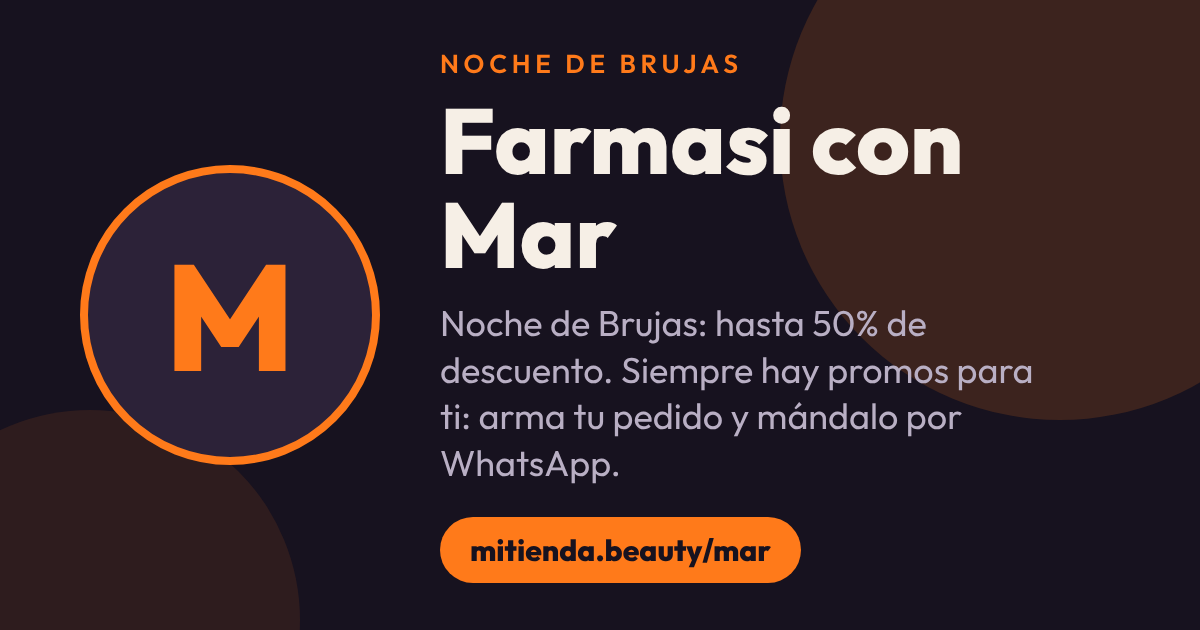
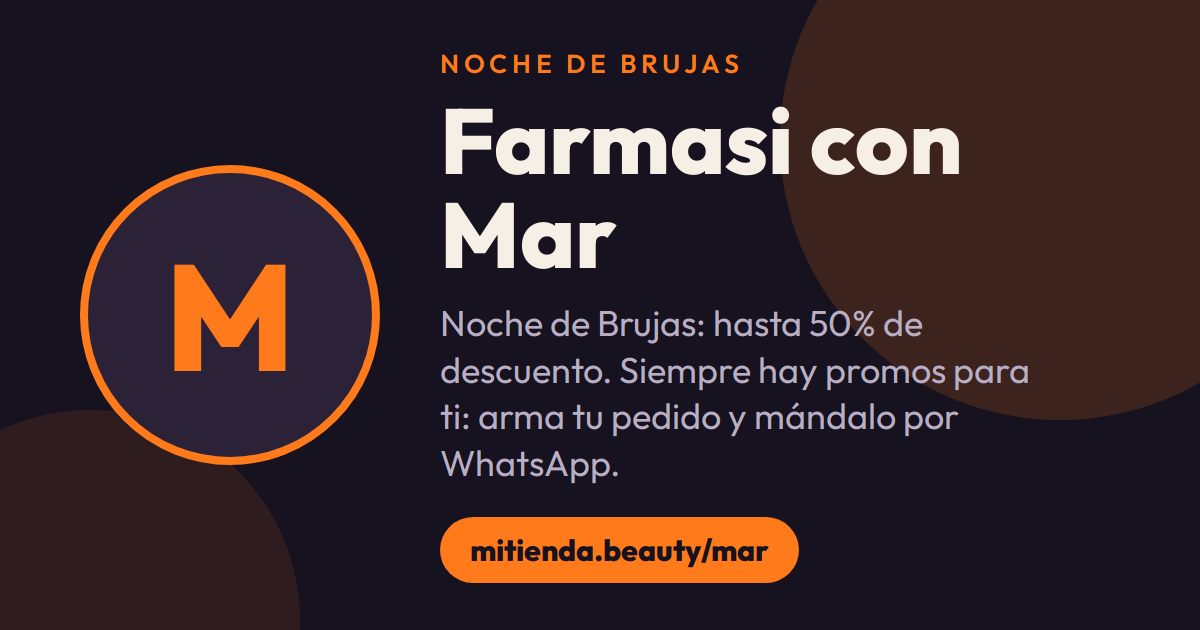
Vistas previas actualizadas (automático)

diff --git a/anaofelia/index.html b/anaofelia/index.html
@@ -14,11 +14,11 @@
 <meta property="og:type" content="website">
 <meta property="og:locale" content="es_MX">
 <meta property="og:url" content="https://mitienda.beauty/anaofelia/">
-<meta property="og:image" content="https://mitienda.beauty/og/anaofelia.png?v=a64262da">
+<meta property="og:image" content="https://mitienda.beauty/og/anaofelia.png?v=b93d5d35">
 <meta property="og:image:width" content="1200">
 <meta property="og:image:height" content="630">
 <meta name="twitter:card" content="summary_large_image">
-<meta name="twitter:image" content="https://mitienda.beauty/og/anaofelia.png?v=a64262da">
+<meta name="twitter:image" content="https://mitienda.beauty/og/anaofelia.png?v=b93d5d35">
 <link rel="preconnect" href="https://fonts.googleapis.com">
 <link rel="preconnect" href="https://fonts.gstatic.com" crossorigin>
 <link href="https://fonts.googleapis.com/css2?family=IBM+Plex+Mono:wght@400;500;700&family=Outfit:wght@300;400;500;600;700;800&display=swap" rel="stylesheet">

diff --git a/anagomez/index.html b/anagomez/index.html
@@ -14,11 +14,11 @@
 <meta property="og:type" content="website">
 <meta property="og:locale" content="es_MX">
 <meta property="og:url" content="https://mitienda.beauty/anagomez/">
-<meta property="og:image" content="https://mitienda.beauty/og/anagomez.png?v=fdf95411">
+<meta property="og:image" content="https://mitienda.beauty/og/anagomez.png?v=821de035">
 <meta property="og:image:width" content="1200">
 <meta property="og:image:height" content="630">
 <meta name="twitter:card" content="summary_large_image">
-<meta name="twitter:image" content="https://mitienda.beauty/og/anagomez.png?v=fdf95411">
+<meta name="twitter:image" content="https://mitienda.beauty/og/anagomez.png?v=821de035">
 <link rel="preconnect" href="https://fonts.googleapis.com">
 <link rel="preconnect" href="https://fonts.gstatic.com" crossorigin>
 <link href="https://fonts.googleapis.com/css2?family=IBM+Plex+Mono:wght@400;500;700&family=Outfit:wght@300;400;500;600;700;800&display=swap" rel="stylesheet">

diff --git a/andrea/index.html b/andrea/index.html
@@ -14,11 +14,11 @@
 <meta property="og:type" content="website">
 <meta property="og:locale" content="es_MX">
 <meta property="og:url" content="https://mitienda.beauty/andrea/">
-<meta property="og:image" content="https://mitienda.beauty/og/andrea.png?v=12f61dfd">
+<meta property="og:image" content="https://mitienda.beauty/og/andrea.png?v=c34cbcfd">
 <meta property="og:image:width" content="1200">
 <meta property="og:image:height" content="630">
 <meta name="twitter:card" content="summary_large_image">
-<meta name="twitter:image" content="https://mitienda.beauty/og/andrea.png?v=12f61dfd">
+<meta name="twitter:image" content="https://mitienda.beauty/og/andrea.png?v=c34cbcfd">
 <link rel="preconnect" href="https://fonts.googleapis.com">
 <link rel="preconnect" href="https://fonts.gstatic.com" crossorigin>
 <link href="https://fonts.googleapis.com/css2?family=IBM+Plex+Mono:wght@400;500;700&family=Outfit:wght@300;400;500;600;700;800&display=swap" rel="stylesheet">

diff --git a/silvia/index.html b/silvia/index.html
@@ -14,11 +14,11 @@
 <meta property="og:type" content="website">
 <meta property="og:locale" content="es_MX">
 <meta property="og:url" content="https://mitienda.beauty/silvia/">
-<meta property="og:image" content="https://mitienda.beauty/og/silvia.png?v=0282c0f1">
+<meta property="og:image" content="https://mitienda.beauty/og/silvia.png?v=94ef40ba">
 <meta property="og:image:width" content="1200">
 <meta property="og:image:height" content="630">
 <meta name="twitter:card" content="summary_large_image">
-<meta name="twitter:image" content="https://mitienda.beauty/og/silvia.png?v=0282c0f1">
+<meta name="twitter:image" content="https://mitienda.beauty/og/silvia.png?v=94ef40ba">
 <link rel="preconnect" href="https://fonts.googleapis.com">
 <link rel="preconnect" href="https://fonts.gstatic.com" crossorigin>
 <link href="https://fonts.googleapis.com/css2?family=IBM+Plex+Mono:wght@400;500;700&family=Outfit:wght@300;400;500;600;700;800&display=swap" rel="stylesheet">

diff --git a/yazmin/index.html b/yazmin/index.html
@@ -14,11 +14,11 @@
 <meta property="og:type" content="website">
 <meta property="og:locale" content="es_MX">
 <meta property="og:url" content="https://mitienda.beauty/yazmin/">
-<meta property="og:image" content="https://mitienda.beauty/og/yazmin.png?v=e9d6ccd0">
+<meta property="og:image" content="https://mitienda.beauty/og/yazmin.png?v=fb48e9fd">
 <meta property="og:image:width" content="1200">
 <meta property="og:image:height" content="630">
 <meta name="twitter:card" content="summary_large_image">
-<meta name="twitter:image" content="https://mitienda.beauty/og/yazmin.png?v=e9d6ccd0">
+<meta name="twitter:image" content="https://mitienda.beauty/og/yazmin.png?v=fb48e9fd">
 <link rel="preconnect" href="https://fonts.googleapis.com">
 <link rel="preconnect" href="https://fonts.gstatic.com" crossorigin>
 <link href="https://fonts.googleapis.com/css2?family=IBM+Plex+Mono:wght@400;500;700&family=Outfit:wght@300;400;500;600;700;800&display=swap" rel="stylesheet">

diff --git a/danny/index.html b/danny/index.html
@@ -14,11 +14,11 @@
 <meta property="og:type" content="website">
 <meta property="og:locale" content="es_MX">
 <meta property="og:url" content="https://mitienda.beauty/danny/">
-<meta property="og:image" content="https://mitienda.beauty/og/danny.png?v=b22361a8">
+<meta property="og:image" content="https://mitienda.beauty/og/danny.png?v=85109e3b">
 <meta property="og:image:width" content="1200">
 <meta property="og:image:height" content="630">
 <meta name="twitter:card" content="summary_large_image">
-<meta name="twitter:image" content="https://mitienda.beauty/og/danny.png?v=b22361a8">
+<meta name="twitter:image" content="https://mitienda.beauty/og/danny.png?v=85109e3b">
 <link rel="preconnect" href="https://fonts.googleapis.com">
 <link rel="preconnect" href="https://fonts.gstatic.com" crossorigin>
 <link href="https://fonts.googleapis.com/css2?family=IBM+Plex+Mono:wght@400;500;700&family=Outfit:wght@300;400;500;600;700;800&display=swap" rel="stylesheet">

diff --git a/laura/index.html b/laura/index.html
@@ -14,11 +14,11 @@
 <meta property="og:type" content="website">
 <meta property="og:locale" content="es_MX">
 <meta property="og:url" content="https://mitienda.beauty/laura/">
-<meta property="og:image" content="https://mitienda.beauty/og/laura.png?v=d550fd0a">
+<meta property="og:image" content="https://mitienda.beauty/og/laura.png?v=62bbef6f">
 <meta property="og:image:width" content="1200">
 <meta property="og:image:height" content="630">
 <meta name="twitter:card" content="summary_large_image">
-<meta name="twitter:image" content="https://mitienda.beauty/og/laura.png?v=d550fd0a">
+<meta name="twitter:image" content="https://mitienda.beauty/og/laura.png?v=62bbef6f">
 <link rel="preconnect" href="https://fonts.googleapis.com">
 <link rel="preconnect" href="https://fonts.gstatic.com" crossorigin>
 <link href="https://fonts.googleapis.com/css2?family=IBM+Plex+Mono:wght@400;500;700&family=Outfit:wght@300;400;500;600;700;800&display=swap" rel="stylesheet">

diff --git a/nancy/index.html b/nancy/index.html
@@ -14,11 +14,11 @@
 <meta property="og:type" content="website">
 <meta property="og:locale" content="es_MX">
 <meta property="og:url" content="https://mitienda.beauty/nancy/">
-<meta property="og:image" content="https://mitienda.beauty/og/nancy.png?v=bba290a9">
+<meta property="og:image" content="https://mitienda.beauty/og/nancy.png?v=af7c8de2">
 <meta property="og:image:width" content="1200">
 <meta property="og:image:height" content="630">
 <meta name="twitter:card" content="summary_large_image">
-<meta name="twitter:image" content="https://mitienda.beauty/og/nancy.png?v=bba290a9">
+<meta name="twitter:image" content="https://mitienda.beauty/og/nancy.png?v=af7c8de2">
 <link rel="preconnect" href="https://fonts.googleapis.com">
 <link rel="preconnect" href="https://fonts.gstatic.com" crossorigin>
 <link href="https://fonts.googleapis.com/css2?family=IBM+Plex+Mono:wght@400;500;700&family=Outfit:wght@300;400;500;600;700;800&display=swap" rel="stylesheet">

diff --git a/sebas/index.html b/sebas/index.html
@@ -14,11 +14,11 @@
 <meta property="og:type" content="website">
 <meta property="og:locale" content="es_MX">
 <meta property="og:url" content="https://mitienda.beauty/sebas/">
-<meta property="og:image" content="https://mitienda.beauty/og/sebas.png?v=563189c1">
+<meta property="og:image" content="https://mitienda.beauty/og/sebas.png?v=5867ecbc">
 <meta property="og:image:width" content="1200">
 <meta property="og:image:height" content="630">
 <meta name="twitter:card" content="summary_large_image">
-<meta name="twitter:image" content="https://mitienda.beauty/og/sebas.png?v=563189c1">
+<meta name="twitter:image" content="https://mitienda.beauty/og/sebas.png?v=5867ecbc">
 <link rel="preconnect" href="https://fonts.googleapis.com">
 <link rel="preconnect" href="https://fonts.gstatic.com" crossorigin>
 <link href="https://fonts.googleapis.com/css2?family=IBM+Plex+Mono:wght@400;500;700&family=Outfit:wght@300;400;500;600;700;800&display=swap" rel="stylesheet">

diff --git a/andi/index.html b/andi/index.html
@@ -14,11 +14,11 @@
 <meta property="og:type" content="website">
 <meta property="og:locale" content="es_MX">
 <meta property="og:url" content="https://mitienda.beauty/andi/">
-<meta property="og:image" content="https://mitienda.beauty/og/andi.png?v=0c8874dc">
+<meta property="og:image" content="https://mitienda.beauty/og/andi.png?v=30a87dd8">
 <meta property="og:image:width" content="1200">
 <meta property="og:image:height" content="630">
 <meta name="twitter:card" content="summary_large_image">
-<meta name="twitter:image" content="https://mitienda.beauty/og/andi.png?v=0c8874dc">
+<meta name="twitter:image" content="https://mitienda.beauty/og/andi.png?v=30a87dd8">
 <link rel="preconnect" href="https://fonts.googleapis.com">
 <link rel="preconnect" href="https://fonts.gstatic.com" crossorigin>
 <link href="https://fonts.googleapis.com/css2?family=IBM+Plex+Mono:wght@400;500;700&family=Outfit:wght@300;400;500;600;700;800&display=swap" rel="stylesheet">

diff --git a/elda/index.html b/elda/index.html
@@ -14,11 +14,11 @@
 <meta property="og:type" content="website">
 <meta property="og:locale" content="es_MX">
 <meta property="og:url" content="https://mitienda.beauty/elda/">
-<meta property="og:image" content="https://mitienda.beauty/og/elda.png?v=147992f5">
+<meta property="og:image" content="https://mitienda.beauty/og/elda.png?v=cd7d2ea6">
 <meta property="og:image:width" content="1200">
 <meta property="og:image:height" content="630">
 <meta name="twitter:card" content="summary_large_image">
-<meta name="twitter:image" content="https://mitienda.beauty/og/elda.png?v=147992f5">
+<meta name="twitter:image" content="https://mitienda.beauty/og/elda.png?v=cd7d2ea6">
 <link rel="preconnect" href="https://fonts.googleapis.com">
 <link rel="preconnect" href="https://fonts.gstatic.com" crossorigin>
 <link href="https://fonts.googleapis.com/css2?family=IBM+Plex+Mono:wght@400;500;700&family=Outfit:wght@300;400;500;600;700;800&display=swap" rel="stylesheet">

diff --git a/gaby/index.html b/gaby/index.html
@@ -14,11 +14,11 @@
 <meta property="og:type" content="website">
 <meta property="og:locale" content="es_MX">
 <meta property="og:url" content="https://mitienda.beauty/gaby/">
-<meta property="og:image" content="https://mitienda.beauty/og/gaby.png?v=77d6572b">
+<meta property="og:image" content="https://mitienda.beauty/og/gaby.png?v=c9e8f0df">
 <meta property="og:image:width" content="1200">
 <meta property="og:image:height" content="630">
 <meta name="twitter:card" content="summary_large_image">
-<meta name="twitter:image" content="https://mitienda.beauty/og/gaby.png?v=77d6572b">
+<meta name="twitter:image" content="https://mitienda.beauty/og/gaby.png?v=c9e8f0df">
 <link rel="preconnect" href="https://fonts.googleapis.com">
 <link rel="preconnect" href="https://fonts.gstatic.com" crossorigin>
 <link href="https://fonts.googleapis.com/css2?family=IBM+Plex+Mono:wght@400;500;700&family=Outfit:wght@300;400;500;600;700;800&display=swap" rel="stylesheet">
